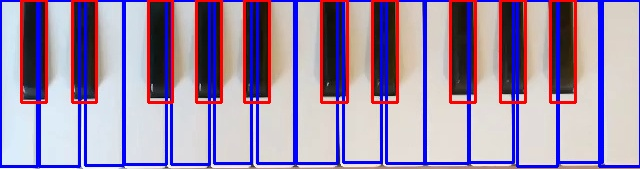
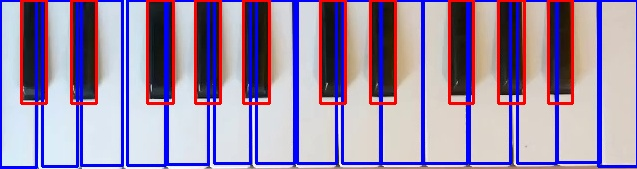
thresholdin not going great

Changed region(s): [[0.0, 0.0, 0.9545, 1.0], [0.9843, 0.0296, 1.0, 0.9763]]

diff --git a/src/hand_tracking.py b/src/hand_tracking.py
@@ -23,6 +23,7 @@ class HandTrack:
 
             #remove this code after
             img = cv2.rotate(img,cv2.ROTATE_90_CLOCKWISE)
+            show_img = img.copy()
             #up to here
 
             imgRGB = cv2.cvtColor(img,cv2.COLOR_BGR2RGB)
@@ -36,7 +37,7 @@ class HandTrack:
 
                         if id in [4,8,12,16,20]:
                         #if id == 8:
-                            cv2.circle(img,(cx,cy), 15, (255,0,255),cv2.FILLED)
+                            cv2.circle(show_img,(cx,cy), 15, (255,0,255),cv2.FILLED)
                             finger_coords.append((cx,cy))
                             #cv2.putText(img,str(actual_depth),(10,70),cv2.FONT_HERSHEY_PLAIN,3,(255,0,0),3)
 
@@ -44,7 +45,6 @@ class HandTrack:
             # fps = 1/(cTime-pTime)
             # pTime = cTime
             key = []
-            
             if len(finger_coords) != 0:
                 for finger in finger_coords:
                     index = 0
@@ -57,26 +57,28 @@ class HandTrack:
                                     new_image[row-i[0]].append(img[col][row])
 
                             new_image = np.array(new_image)
-                            cv2.imshow('img',black_imgs[index])
-                            cv2.waitKey(0)
-                            cv2.imshow('img',new_image)
-                            cv2.waitKey(0)
                             y = finger[1]-i[1]
-                            if y > 20 : y -=20
-                            new_image = new_image[:,:y]
-                            new_image = new_image[:,:y]
-                            new_key_img = black_imgs[index][:,:y]
-                            gray_image1 = cv2.cvtColor(new_image, cv2.COLOR_BGR2GRAY)
-                            gray_image2 = cv2.cvtColor(new_key_img, cv2.COLOR_BGR2GRAY)
-                            x1,y1 = gray_image1.shape
-                            x2,y2 = gray_image2.shape
-                            ssim = None
-                            if x1 >= 7 and x2 >= 7 and y1 >=7 and y2 >=7:
-                                ssim,_ = structural_similarity(gray_image1,gray_image2, full=True)
-                                print(f"black {index} {ssim}")
-                                if ssim < 0.8:
-                                    key.append(('b',i))
-                            #print(f"black key number {index}: {ssim}")
+                            for finger2 in finger_coords:
+                                if finger2[1] < finger[1] and finger2[0]> i[0] and finger2[0] < i[0]+i[2] and finger2[1] > i[1] and finger2[1] < i[1]+i[3]:
+                                    y = finger2[1]-i[1]
+                            if y > 30 : y -=30
+                            else: y = 0
+                            if y != 0:
+                                new_image = new_image[:,:y]
+                                new_image = new_image[:,:y]
+                                new_key_img = black_imgs[index][:,:y]
+                                gray_image1 = cv2.cvtColor(new_image, cv2.COLOR_BGR2GRAY)
+                                gray_image2 = cv2.cvtColor(new_key_img, cv2.COLOR_BGR2GRAY)
+                                x1,y1 = gray_image1.shape
+                                x2,y2 = gray_image2.shape
+                                ssim = None
+                                if x1 >= 7 and x2 >= 7 and y1 >=7 and y2 >=7:
+                                    ssim,_ = structural_similarity(gray_image1,gray_image2, full=True)
+                                    #print(f"black {index} {ssim}")
+                                    if ssim < 0.7:
+                                        cv2.rectangle(show_img,(i[0],i[1]),(i[0]+i[2],i[3]+i[1]),(255,0,0),1)
+                                        key.append(('b',i))
+                                #print(f"black key number {index}: {ssim}")
                         index +=1
                     index = 0
                     for i in white_keys[:]:
@@ -99,17 +101,19 @@ class HandTrack:
                             ssim = None
                             if x1 >= 7 and x2 >= 7 and y1 >=7 and y2 >=7:
                                 ssim,_ = structural_similarity(gray_image1,gray_image2, full=True)
-                                print(f"white {index} {ssim}")
-                                if ssim < 0.8:
-                                    key.append(('w',i))
+                                #print(f"white {index} {ssim}")
+                                if ssim < 0.7:
+                                    cv2.rectangle(show_img,(i[0],i[1]),(i[0]+i[2],i[3]+i[1]),(255,0,0),1)
+                                    if ('w',i) not in key:
+                                        key.append(('w',i))
                             #print(f"white key number {index}: {ssim}")
                         index +=1
                 
             #cv2.putText(img,str(int(fps)),(10,70),cv2.FONT_HERSHEY_PLAIN,3,(255,0,0),3)
 
             #print(keys1,keys2)
-            # cv2.imshow("Image", img)
-            # cv2.waitKey(0)
+            cv2.imshow("Image", show_img)
+            cv2.waitKey(1)
             successe, img = cap.read()
             if key != [] and key != last_key: keys.append(key)
             last_key = key

diff --git a/src/main.py b/src/main.py
@@ -3,13 +3,13 @@ from hand_tracking import HandTrack
 from sheet_music import SheetMusic
 
 def main():
-    ImgProc.get_first_frame('video/piano_video4.mp4')
+    ImgProc.get_first_frame('video/piano_video8.mp4')
     _,shape = ImgProc.find_piano('img/results/piano.jpg')
     black_keys, white_keys = ImgProc.find_keys('img/results/cropped_keyboard.jpg')
     white_keys = SheetMusic.sortKeys(white_keys)
     black_imgs, white_imgs =  ImgProc.get_key('img/results/cropped_keyboard.jpg',black_keys,white_keys)
     black_keys, white_keys = ImgProc.fix_key_coords(black_keys,white_keys,shape)
-    keys= HandTrack.handTrakc('video/piano_video4.mp4',black_keys,white_keys,black_imgs, white_imgs)
+    keys= HandTrack.handTrakc('video/piano_video8.mp4',black_keys,white_keys,black_imgs, white_imgs)
     print(SheetMusic.getKeyNotes(black_keys,white_keys,keys))
 
 
